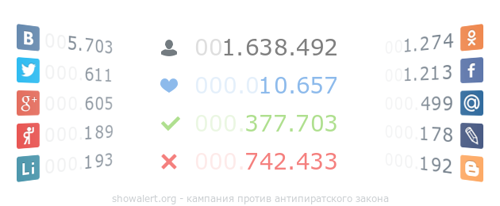
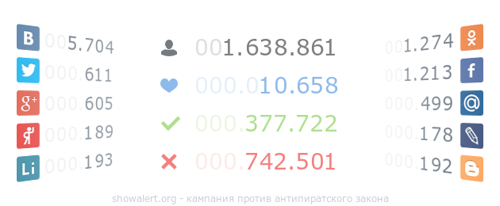
some updates

diff --git a/votes.js b/votes.js
@@ -1,1 +1,1 @@
-window.lk.votes(26294)
+window.lk.votes(26315)
